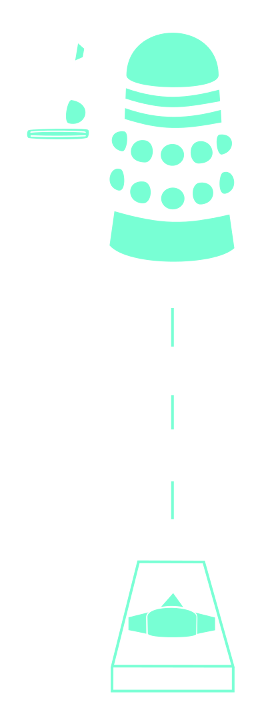
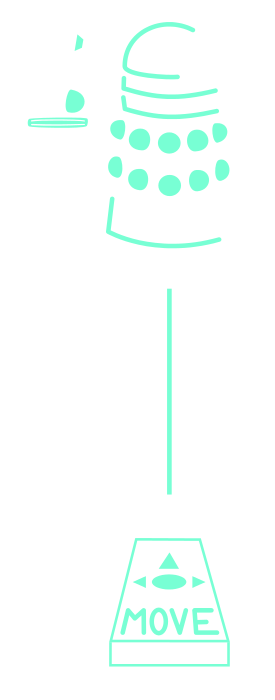
Remove instruction text and update sidebar image

diff --git a/static/script/appui/components/main.js b/static/script/appui/components/main.js
@@ -78,11 +78,6 @@ require.def("davros/appui/components/main",
                     this.appendChildWidget(back);
                     back.appendChildWidget(new Label('BACKLabel', "Back"));
 
-                    controlsLabel = new Label("controlsLabel", "Use the navigation buttons for movement. Use the Select or Enter button to exterminate target");
-                   this.appendChildWidget(controlsLabel);
-
-
-
                     this.addEventListener("beforerender", function (evt) {
                         self._onBeforeRender(evt);
                     });

diff --git a/static/style/all.css b/static/style/all.css
@@ -20,7 +20,7 @@
 	height: 1px;
 }
 
-#titleLabel, #videoLabel, #controlsLabel {
+#titleLabel {
     display: block;
     text-align: left;
     font-family: sans-serif;
